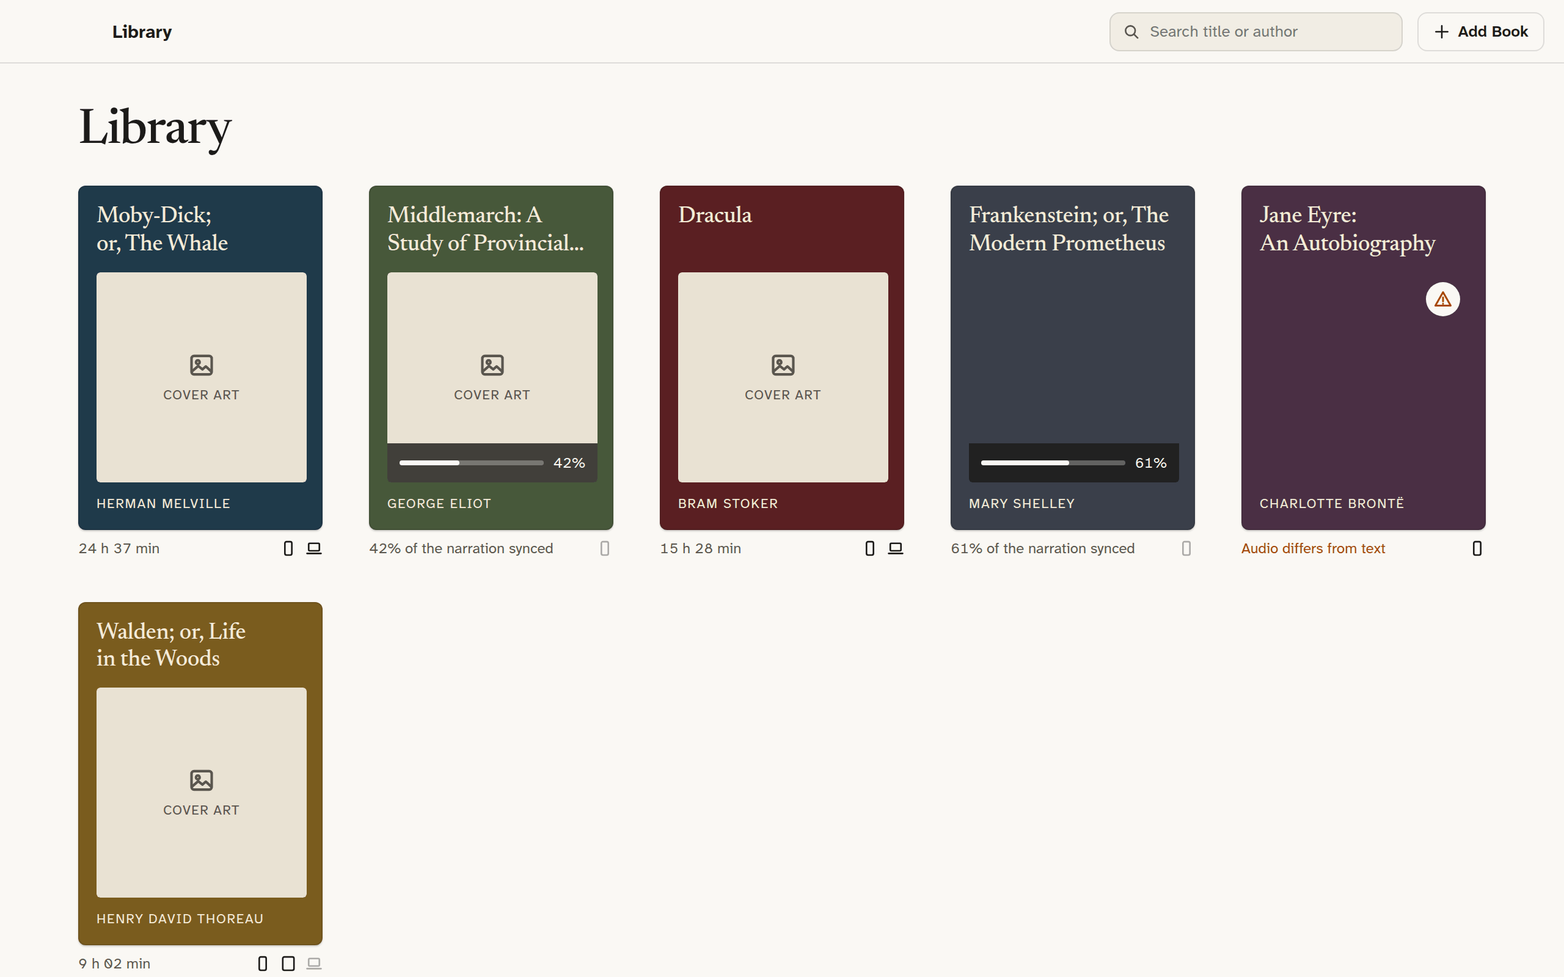
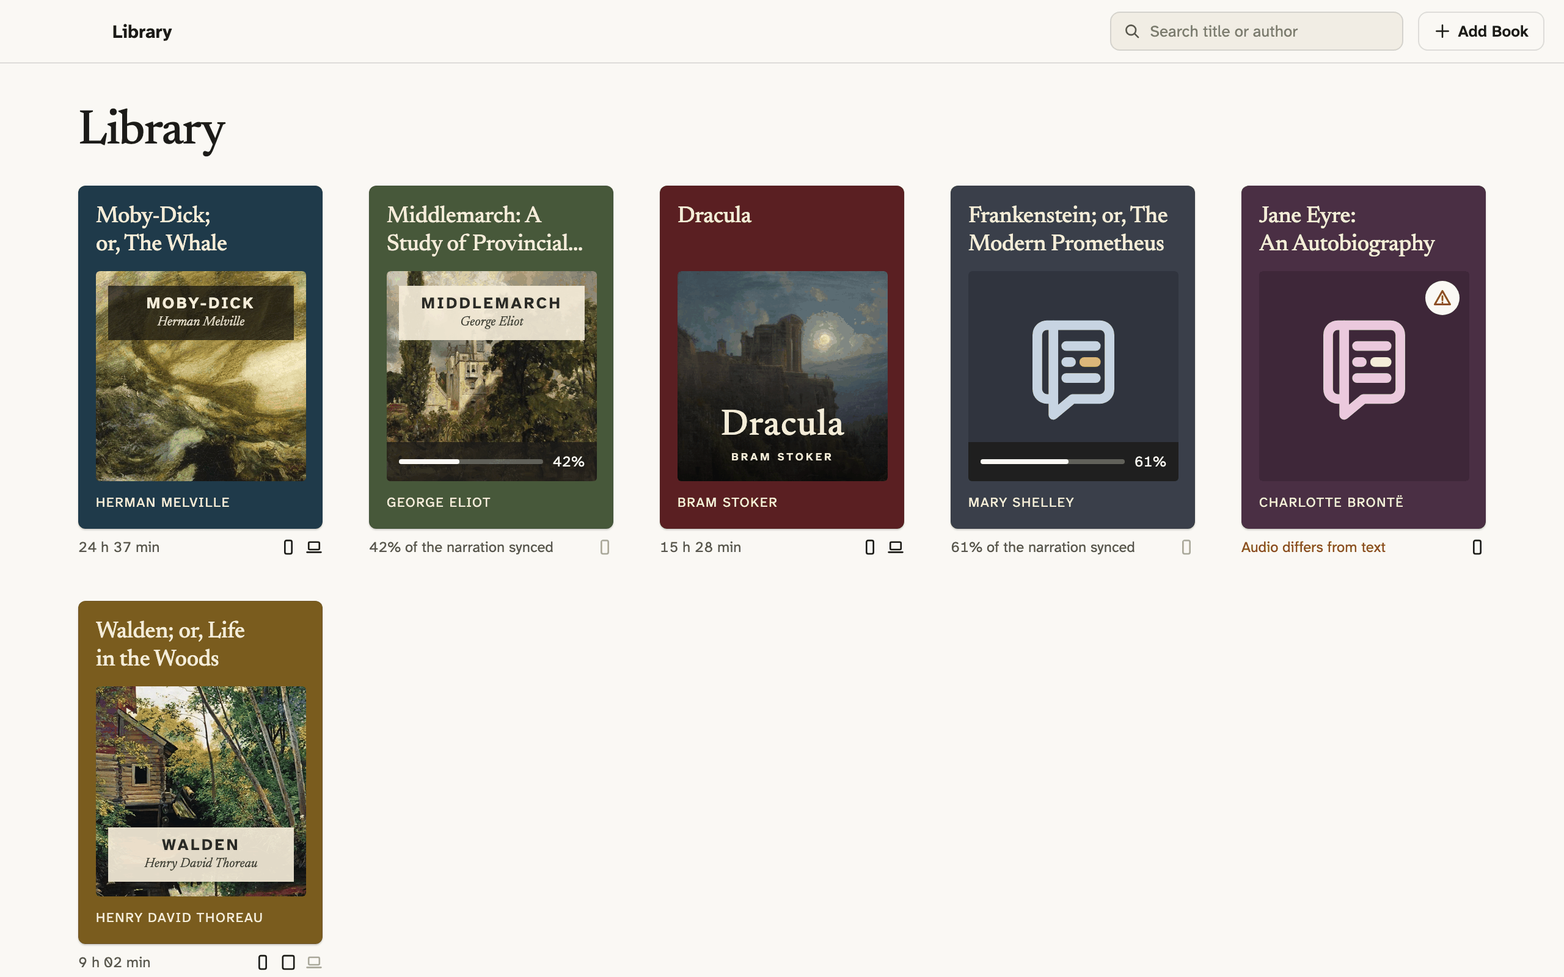
Put real covers in the library picture
The Mac library picture showed "Cover art" placeholders where the covers
go, which read as unfinished on a page that is meant to sell the app.
The four books with covers now carry the public-domain paintings
Standard Ebooks chose for their editions, cropped square and lettered in
different styles so the shelf looks like books from different shops.
The two books without a cover show the Entzun mark, tinted from the
book's own colour.

The artboard's templating script is not in the app repo, so
`design/library-mac.html` is a static copy of `ShelfMac.dc.html` in the
light theme with the covers filled in, rendered at 2x and reduced to a
256-colour palette (328 KB). The paintings are credited in the
acknowledgements on the support page.

diff --git a/design/library-mac.html b/design/library-mac.html
@@ -1,0 +1,36 @@
+<!doctype html>
+<html lang="en">
+<head>
+<meta charset="utf-8">
+<title>Library · Shelf, Mac</title>
+<!-- The Mac library artboard from the app repo (docs/design/artboards/ShelfMac.dc.html), light theme,
+     with the cover placeholders filled. Rendered to assets/screens/library-mac.png; see the README. -->
+<style>
+@font-face { font-family: "Newsreader"; src: url("../assets/fonts/Newsreader16pt-Regular.ttf"); font-weight: 400; }
+@font-face { font-family: "Newsreader"; src: url("../assets/fonts/Newsreader16pt-Medium.ttf"); font-weight: 500; }
+@font-face { font-family: "Newsreader"; src: url("../assets/fonts/Newsreader16pt-Italic.ttf"); font-weight: 400; font-style: italic; }
+@font-face { font-family: "Atkinson Hyperlegible Next"; src: url("../assets/fonts/AtkinsonHyperlegibleNext-Regular.ttf"); font-weight: 400; }
+@font-face { font-family: "Atkinson Hyperlegible Next"; src: url("../assets/fonts/AtkinsonHyperlegibleNext-SemiBold.ttf"); font-weight: 600; }
+@font-face { font-family: "Atkinson Hyperlegible Next"; src: url("../assets/fonts/AtkinsonHyperlegibleNext-Bold.ttf"); font-weight: 700; }
+body { margin: 0; font-family: "Atkinson Hyperlegible Next", system-ui, sans-serif; background: #FAF8F4; color: #1C1B19; }
+a { color: inherit; text-decoration: none; }
+.cover { width: 172px; height: 172px; border-radius: 3px; background-size: cover; background-position: center; box-shadow: 0 1px 3px rgba(0,0,0,0.3); position: relative; }
+.plate { position: absolute; left: 10px; right: 10px; top: 12px; padding: 7px 8px 8px; background: rgba(20, 18, 16, 0.72); color: #F4ECD8; display: flex; flex-direction: column; align-items: center; gap: 2px; text-align: center; }
+.plate-title { font-family: "Atkinson Hyperlegible Next", sans-serif; font-weight: 700; font-size: 13px; letter-spacing: 0.14em; text-transform: uppercase; line-height: 1.1; }
+.plate-author { font-family: "Newsreader", Georgia, serif; font-style: italic; font-size: 11px; line-height: 1.2; opacity: 0.9; }
+.plate-cream { background: rgba(244, 236, 216, 0.92); color: #2B2A26; }
+.plate-low { top: auto; bottom: 12px; }
+.cover-shade::after { content: ""; position: absolute; inset: 0; background: linear-gradient(to bottom, rgba(0,0,0,0) 45%, rgba(0,0,0,0.7)); border-radius: 3px; }
+.plate-bottom { position: absolute; left: 0; right: 0; bottom: 14px; z-index: 1; display: flex; flex-direction: column; align-items: center; color: #F4ECD8; }
+.plate-big { font-family: "Newsreader", Georgia, serif; font-weight: 500; font-size: 30px; letter-spacing: 0.02em; line-height: 1; }
+.plate-small { margin-top: 4px; font-size: 9px; font-weight: 600; letter-spacing: 0.22em; text-transform: uppercase; }
+.nocover { width: 172px; height: 172px; border-radius: 3px; background: rgba(0, 0, 0, 0.16); display: flex; align-items: center; justify-content: center; }
+.nocover .mark { width: 84px; height: 84px; margin-top: -10px; }
+</style>
+</head>
+<body>
+<div style="width: 1280px; height: 800px; box-sizing: border-box; overflow: hidden; background: #FAF8F4; color: #1C1B19; font-family: 'Atkinson Hyperlegible Next', system-ui, sans-serif; display: flex; flex-direction: column;">
+<div style="height: 52px; flex-shrink: 0; box-sizing: border-box; display: flex; align-items: center; justify-content: space-between; padding: 0 16px 0 92px; border-bottom: 1px solid rgba(28,27,25,0.12);"><div style="font-size: 15px; font-weight: 700;">Library</div><div style="display: flex; align-items: center; gap: 12px;"><label style="width: 240px; height: 32px; box-sizing: border-box; display: flex; align-items: center; gap: 8px; padding: 0 10px; border-radius: 8px; background: #F1EDE4; border: 1px solid rgba(28,27,25,0.12); color: #5A564E; font-size: 13px;"><svg width="14" height="14" viewBox="0 0 16 16" fill="none" stroke="currentColor" stroke-width="1.5" stroke-linecap="round" stroke-linejoin="round" aria-hidden="true" style="flex-shrink: 0;"><circle cx="7" cy="7" r="4.5"></circle><path d="M10.5 10.5l3.25 3.25"></path></svg><span style="position: absolute; width: 1px; height: 1px; overflow: hidden; clip-path: inset(50%);">Search the library</span><input type="search" placeholder="Search title or author" style="border: none; outline: none; background: none; padding: 0; margin: 0; min-width: 0; flex-grow: 1; font: inherit; color: #1C1B19;"></label><button type="button" style="border: none; background: none; padding: 0; margin: 0; font: inherit; color: inherit; cursor: pointer; height: 32px; display: flex; align-items: center; gap: 6px; padding: 0 12px; border-radius: 8px; border: 1px solid rgba(28,27,25,0.12); font-size: 13px; font-weight: 600;"><svg width="14" height="14" viewBox="0 0 16 16" fill="none" stroke="currentColor" stroke-width="1.5" stroke-linecap="round" stroke-linejoin="round" aria-hidden="true" style="flex-shrink: 0;"><path d="M8 2.5v11M2.5 8h11"></path></svg><span>Add Book</span></button></div></div><div style="display: flex; flex-direction: column; padding: 36px 64px 0;"><h1 style="margin: 0 0 24px; font-family: 'Newsreader', Georgia, serif; font-weight: 500; font-size: 40px; letter-spacing: -0.02em;">Library</h1><div style="display: grid; grid-template-columns: repeat(5, minmax(0, 1fr)); gap: 36px 38px;"><a href="#read" style="display: flex; flex-direction: column; gap: 7px; min-width: 0;"><div style="width: 200px; box-sizing: border-box; padding: 14px; background: #1F3A4A; color: #F4ECD8; border-radius: 6px; border: 0.5px solid rgba(28,27,25,0.12); box-shadow: 0 1px 1.5px rgba(0,0,0,0.18); display: flex; flex-direction: column; gap: 10px;"><div style="font-family: 'Newsreader', Georgia, serif; font-weight: 500; line-height: 1.2; letter-spacing: -0.01em; font-size: 19px; min-height: 2.4em; display: -webkit-box; -webkit-line-clamp: 2; -webkit-box-orient: vertical; overflow: hidden; text-wrap: balance;">Moby-Dick; or, The Whale</div><div style="position: relative; width: 172px; height: 172px; border-radius: 3px; overflow: hidden;"><div class="cover" style="background-image: url(covers/moby-dick.jpg);"><div class="plate"><span class="plate-title">Moby-Dick</span><span class="plate-author">Herman Melville</span></div></div></div><div style="font-size: 11px; letter-spacing: 0.08em; text-transform: uppercase; white-space: nowrap; overflow: hidden; text-overflow: ellipsis;">Herman Melville</div></div><div style="display: flex; justify-content: space-between; align-items: center; gap: 8px;"><div style="font-size: 12px; color: #5A564E; white-space: nowrap; overflow: hidden; text-overflow: ellipsis; font-variant-numeric: tabular-nums;">24 h 37 min</div><div role="img" aria-label="This iPhone: ready to read. MacBook Pro: ready to read." style="display: flex; gap: 7px; align-items: center; color: #1C1B19;"><span style="display: flex; opacity: 1;"><svg width="14" height="14" viewBox="0 0 16 16" fill="none" stroke="currentColor" stroke-width="1.5" stroke-linecap="round" stroke-linejoin="round" aria-hidden="true" style="flex-shrink: 0;"><rect x="4.75" y="1.75" width="6.5" height="12.5" rx="1.5"></rect></svg></span><span style="display: flex; opacity: 1;"><svg width="14" height="14" viewBox="0 0 16 16" fill="none" stroke="currentColor" stroke-width="1.5" stroke-linecap="round" stroke-linejoin="round" aria-hidden="true" style="flex-shrink: 0;"><rect x="3" y="3.25" width="10" height="7" rx="1"></rect><path d="M1.5 12.75h13"></path></svg></span></div></div></a><a href="#read" style="display: flex; flex-direction: column; gap: 7px; min-width: 0;"><div style="width: 200px; box-sizing: border-box; padding: 14px; background: #47583A; color: #F4ECD8; border-radius: 6px; border: 0.5px solid rgba(28,27,25,0.12); box-shadow: 0 1px 1.5px rgba(0,0,0,0.18); display: flex; flex-direction: column; gap: 10px;"><div style="font-family: 'Newsreader', Georgia, serif; font-weight: 500; line-height: 1.2; letter-spacing: -0.01em; font-size: 19px; min-height: 2.4em; display: -webkit-box; -webkit-line-clamp: 2; -webkit-box-orient: vertical; overflow: hidden; text-wrap: balance;">Middlemarch: A Study of Provincial Life</div><div style="position: relative; width: 172px; height: 172px; border-radius: 3px; overflow: hidden;"><div class="cover" style="background-image: url(covers/middlemarch.jpg);"><div class="plate plate-cream"><span class="plate-title">Middlemarch</span><span class="plate-author">George Eliot</span></div></div><div style="position: absolute; left: 0; right: 0; bottom: 0; padding: 8px 10px; background: rgba(28,27,25,0.82); color: #FAF8F4; display: flex; align-items: center; gap: 8px; font-size: 12px; font-variant-numeric: tabular-nums;"><div style="flex-grow: 1; height: 4px; border-radius: 2px; background: rgba(250,248,244,0.3);"><div style="width: 42%; height: 4px; border-radius: 2px; background: #FAF8F4;"></div></div><span>42%</span></div></div><div style="font-size: 11px; letter-spacing: 0.08em; text-transform: uppercase; white-space: nowrap; overflow: hidden; text-overflow: ellipsis;">George Eliot</div></div><div style="display: flex; justify-content: space-between; align-items: center; gap: 8px;"><div style="font-size: 12px; color: #5A564E; white-space: nowrap; overflow: hidden; text-overflow: ellipsis; font-variant-numeric: tabular-nums;">42% of the narration synced</div><div role="img" aria-label="This iPhone: 42% synced." style="display: flex; gap: 7px; align-items: center; color: #1C1B19;"><span style="display: flex; opacity: 0.35;"><svg width="14" height="14" viewBox="0 0 16 16" fill="none" stroke="currentColor" stroke-width="1.5" stroke-linecap="round" stroke-linejoin="round" aria-hidden="true" style="flex-shrink: 0;"><rect x="4.75" y="1.75" width="6.5" height="12.5" rx="1.5"></rect></svg></span></div></div></a><a href="#read" style="display: flex; flex-direction: column; gap: 7px; min-width: 0;"><div style="width: 200px; box-sizing: border-box; padding: 14px; background: #5A1F22; color: #F4ECD8; border-radius: 6px; border: 0.5px solid rgba(28,27,25,0.12); box-shadow: 0 1px 1.5px rgba(0,0,0,0.18); display: flex; flex-direction: column; gap: 10px;"><div style="font-family: 'Newsreader', Georgia, serif; font-weight: 500; line-height: 1.2; letter-spacing: -0.01em; font-size: 19px; min-height: 2.4em; display: -webkit-box; -webkit-line-clamp: 2; -webkit-box-orient: vertical; overflow: hidden; text-wrap: balance;">Dracula</div><div style="position: relative; width: 172px; height: 172px; border-radius: 3px; overflow: hidden;"><div class="cover cover-shade" style="background-image: url(covers/dracula.jpg);"><div class="plate-bottom"><span class="plate-big">Dracula</span><span class="plate-small">Bram Stoker</span></div></div></div><div style="font-size: 11px; letter-spacing: 0.08em; text-transform: uppercase; white-space: nowrap; overflow: hidden; text-overflow: ellipsis;">Bram Stoker</div></div><div style="display: flex; justify-content: space-between; align-items: center; gap: 8px;"><div style="font-size: 12px; color: #5A564E; white-space: nowrap; overflow: hidden; text-overflow: ellipsis; font-variant-numeric: tabular-nums;">15 h 28 min</div><div role="img" aria-label="This iPhone: ready to read. MacBook Pro: ready to read." style="display: flex; gap: 7px; align-items: center; color: #1C1B19;"><span style="display: flex; opacity: 1;"><svg width="14" height="14" viewBox="0 0 16 16" fill="none" stroke="currentColor" stroke-width="1.5" stroke-linecap="round" stroke-linejoin="round" aria-hidden="true" style="flex-shrink: 0;"><rect x="4.75" y="1.75" width="6.5" height="12.5" rx="1.5"></rect></svg></span><span style="display: flex; opacity: 1;"><svg width="14" height="14" viewBox="0 0 16 16" fill="none" stroke="currentColor" stroke-width="1.5" stroke-linecap="round" stroke-linejoin="round" aria-hidden="true" style="flex-shrink: 0;"><rect x="3" y="3.25" width="10" height="7" rx="1"></rect><path d="M1.5 12.75h13"></path></svg></span></div></div></a><a href="#read" style="display: flex; flex-direction: column; gap: 7px; min-width: 0;"><div style="width: 200px; box-sizing: border-box; padding: 14px; background: #3A3F4A; color: #F4ECD8; border-radius: 6px; border: 0.5px solid rgba(28,27,25,0.12); box-shadow: 0 1px 1.5px rgba(0,0,0,0.18); display: flex; flex-direction: column; gap: 10px;"><div style="font-family: 'Newsreader', Georgia, serif; font-weight: 500; line-height: 1.2; letter-spacing: -0.01em; font-size: 19px; min-height: 2.4em; display: -webkit-box; -webkit-line-clamp: 2; -webkit-box-orient: vertical; overflow: hidden; text-wrap: balance;">Frankenstein; or, The Modern Prometheus</div><div style="position: relative; width: 172px; height: 172px; border-radius: 3px; overflow: hidden;"><div class="nocover" style="color: #C7D4E2; --word: #F2B45C;"><svg class="mark" viewBox="0 0 160 160" fill="none" stroke-width="15" stroke-linecap="round" stroke-linejoin="round" aria-hidden="true"><g stroke="currentColor"><path d="M38.77 10H121.23C129.46 10 136.23 16.77 136.23 25V110C136.23 118.23 129.46 125 121.23 125H78.77L48.77 150V125H38.77C30.54 125 23.77 118.23 23.77 110V25C23.77 16.77 30.54 10 38.77 10Z"/><path d="M48.77 10V125"/><path d="M68.77 42.5H114.96M68.77 92.5H114.96M68.77 67.5H76.27"/></g><path d="M96.92 67.5H114.96" stroke="var(--word)"/></svg></div><div style="position: absolute; left: 0; right: 0; bottom: 0; padding: 8px 10px; background: rgba(28,27,25,0.82); color: #FAF8F4; display: flex; align-items: center; gap: 8px; font-size: 12px; font-variant-numeric: tabular-nums;"><div style="flex-grow: 1; height: 4px; border-radius: 2px; background: rgba(250,248,244,0.3);"><div style="width: 61%; height: 4px; border-radius: 2px; background: #FAF8F4;"></div></div><span>61%</span></div></div><div style="font-size: 11px; letter-spacing: 0.08em; text-transform: uppercase; white-space: nowrap; overflow: hidden; text-overflow: ellipsis;">Mary Shelley</div></div><div style="display: flex; justify-content: space-between; align-items: center; gap: 8px;"><div style="font-size: 12px; color: #5A564E; white-space: nowrap; overflow: hidden; text-overflow: ellipsis; font-variant-numeric: tabular-nums;">61% of the narration synced</div><div role="img" aria-label="This iPhone: 61% of the narration synced." style="display: flex; gap: 7px; align-items: center; color: #1C1B19;"><span style="display: flex; opacity: 0.35;"><svg width="14" height="14" viewBox="0 0 16 16" fill="none" stroke="currentColor" stroke-width="1.5" stroke-linecap="round" stroke-linejoin="round" aria-hidden="true" style="flex-shrink: 0;"><rect x="4.75" y="1.75" width="6.5" height="12.5" rx="1.5"></rect></svg></span></div></div></a><a href="#read" style="display: flex; flex-direction: column; gap: 7px; min-width: 0;"><div style="width: 200px; box-sizing: border-box; padding: 14px; background: #4A2F44; color: #F4ECD8; border-radius: 6px; border: 0.5px solid rgba(28,27,25,0.12); box-shadow: 0 1px 1.5px rgba(0,0,0,0.18); display: flex; flex-direction: column; gap: 10px;"><div style="font-family: 'Newsreader', Georgia, serif; font-weight: 500; line-height: 1.2; letter-spacing: -0.01em; font-size: 19px; min-height: 2.4em; display: -webkit-box; -webkit-line-clamp: 2; -webkit-box-orient: vertical; overflow: hidden; text-wrap: balance;">Jane Eyre: An Autobiography</div><div style="position: relative; width: 172px; height: 172px; border-radius: 3px; overflow: hidden;"><div class="nocover" style="color: #EBC9DD; --word: #F4ECD8;"><svg class="mark" viewBox="0 0 160 160" fill="none" stroke-width="15" stroke-linecap="round" stroke-linejoin="round" aria-hidden="true"><g stroke="currentColor"><path d="M38.77 10H121.23C129.46 10 136.23 16.77 136.23 25V110C136.23 118.23 129.46 125 121.23 125H78.77L48.77 150V125H38.77C30.54 125 23.77 118.23 23.77 110V25C23.77 16.77 30.54 10 38.77 10Z"/><path d="M48.77 10V125"/><path d="M68.77 42.5H114.96M68.77 92.5H114.96M68.77 67.5H76.27"/></g><path d="M96.92 67.5H114.96" stroke="var(--word)"/></svg></div><div style="position: absolute; top: 8px; right: 8px; width: 28px; height: 28px; border-radius: 50%; background: #FAF8F4; color: #A8480A; display: flex; align-items: center; justify-content: center;"><svg width="16" height="16" viewBox="0 0 16 16" fill="none" stroke="currentColor" stroke-width="1.5" stroke-linecap="round" stroke-linejoin="round" aria-hidden="true" style="flex-shrink: 0;"><path d="M8 2.25l6.25 11H1.75z"></path><path d="M8 6.5v3.25M8 11.6v.1"></path></svg></div></div><div style="font-size: 11px; letter-spacing: 0.08em; text-transform: uppercase; white-space: nowrap; overflow: hidden; text-overflow: ellipsis;">Charlotte Brontë</div></div><div style="display: flex; justify-content: space-between; align-items: center; gap: 8px;"><div style="font-size: 12px; color: #A8480A; white-space: nowrap; overflow: hidden; text-overflow: ellipsis; font-variant-numeric: tabular-nums;">Audio differs from text</div><div role="img" aria-label="This iPhone: ready to read." style="display: flex; gap: 7px; align-items: center; color: #1C1B19;"><span style="display: flex; opacity: 1;"><svg width="14" height="14" viewBox="0 0 16 16" fill="none" stroke="currentColor" stroke-width="1.5" stroke-linecap="round" stroke-linejoin="round" aria-hidden="true" style="flex-shrink: 0;"><rect x="4.75" y="1.75" width="6.5" height="12.5" rx="1.5"></rect></svg></span></div></div></a><a href="#read" style="display: flex; flex-direction: column; gap: 7px; min-width: 0;"><div style="width: 200px; box-sizing: border-box; padding: 14px; background: #7A5C1E; color: #F4ECD8; border-radius: 6px; border: 0.5px solid rgba(28,27,25,0.12); box-shadow: 0 1px 1.5px rgba(0,0,0,0.18); display: flex; flex-direction: column; gap: 10px;"><div style="font-family: 'Newsreader', Georgia, serif; font-weight: 500; line-height: 1.2; letter-spacing: -0.01em; font-size: 19px; min-height: 2.4em; display: -webkit-box; -webkit-line-clamp: 2; -webkit-box-orient: vertical; overflow: hidden; text-wrap: balance;">Walden; or, Life in the Woods</div><div style="position: relative; width: 172px; height: 172px; border-radius: 3px; overflow: hidden;"><div class="cover" style="background-image: url(covers/walden.jpg);"><div class="plate plate-cream plate-low"><span class="plate-title">Walden</span><span class="plate-author">Henry David Thoreau</span></div></div></div><div style="font-size: 11px; letter-spacing: 0.08em; text-transform: uppercase; white-space: nowrap; overflow: hidden; text-overflow: ellipsis;">Henry David Thoreau</div></div><div style="display: flex; justify-content: space-between; align-items: center; gap: 8px;"><div style="font-size: 12px; color: #5A564E; white-space: nowrap; overflow: hidden; text-overflow: ellipsis; font-variant-numeric: tabular-nums;">9 h 02 min</div><div role="img" aria-label="This iPhone: ready to read. iPad: ready to read. MacBook Air: 64% synced." style="display: flex; gap: 7px; align-items: center; color: #1C1B19;"><span style="display: flex; opacity: 1;"><svg width="14" height="14" viewBox="0 0 16 16" fill="none" stroke="currentColor" stroke-width="1.5" stroke-linecap="round" stroke-linejoin="round" aria-hidden="true" style="flex-shrink: 0;"><rect x="4.75" y="1.75" width="6.5" height="12.5" rx="1.5"></rect></svg></span><span style="display: flex; opacity: 1;"><svg width="14" height="14" viewBox="0 0 16 16" fill="none" stroke="currentColor" stroke-width="1.5" stroke-linecap="round" stroke-linejoin="round" aria-hidden="true" style="flex-shrink: 0;"><rect x="2.75" y="1.75" width="10.5" height="12.5" rx="1.5"></rect></svg></span><span style="display: flex; opacity: 0.35;"><svg width="14" height="14" viewBox="0 0 16 16" fill="none" stroke="currentColor" stroke-width="1.5" stroke-linecap="round" stroke-linejoin="round" aria-hidden="true" style="flex-shrink: 0;"><rect x="3" y="3.25" width="10" height="7" rx="1"></rect><path d="M1.5 12.75h13"></path></svg></span></div></div></a></div></div>
+</div>
+</body>
+</html>

diff --git a/support.html b/support.html
@@ -99,7 +99,7 @@
       <p class="muted">Read on both without iCloud and each device keeps its own place; when the two disagree, the app asks which to carry on from before showing a page.</p>
 
       <h2 class="serif" id="acknowledgements">Acknowledgements</h2>
-      <p class="muted">The work of others that ships with the app, and with this site. The typefaces Newsreader, Atkinson Hyperlegible Next, Lexend and OpenDyslexic are used under the SIL Open Font License 1.1; Luciole, by Laurent Bourcellier and Jonathan Perez, under the Creative Commons Attribution 4.0 International licence. EPUB files are opened with ZIPFoundation, by Thomas Zoechling, under the MIT licence. The full notices are in the app, under About, and beside the font files on this site.</p>
+      <p class="muted">The work of others that ships with the app, and with this site. The typefaces Newsreader, Atkinson Hyperlegible Next, Lexend and OpenDyslexic are used under the SIL Open Font License 1.1; Luciole, by Laurent Bourcellier and Jonathan Perez, under the Creative Commons Attribution 4.0 International licence. EPUB files are opened with ZIPFoundation, by Thomas Zoechling, under the MIT licence. The full notices are in the app, under About, and beside the font files on this site. The covers in the picture of the library are public-domain paintings, as Standard Ebooks chose them for their editions: <cite>The Flying Dutchman</cite> by Albert Pinkham Ryder, <cite>The Grove, Hampstead</cite> by John Constable, <cite>Italian Landscape of Ruins in the Moonlight</cite> by Joseph Magnus Stäck, and <cite>Mill in the Forest</cite> by Ivan Shishkin.</p>
     </article>
   </div>
 </main>

diff --git a/index.html b/index.html
@@ -293,7 +293,7 @@
           <h2 class="display">A shelf that says what is going on.</h2>
           <p class="muted">Under every cover, one line of truth: how long the narration is, how much has synced, or, when the recording does not follow the text, a plain “Audio differs from text”.</p>
         </div>
-        <img class="shot-mac" src="assets/screens/library-mac.png" width="1280" height="800" alt="The library on Mac: a grid of book tiles in deep muted colours, one still syncing and one flagged as not matching its text">
+        <img class="shot-mac" src="assets/screens/library-mac.png" width="1280" height="800" alt="The library on Mac: a grid of book tiles in deep muted colours with their covers, one still syncing and one flagged as not matching its text">
       </div>
     </div>
   </section>

diff --git a/README.md b/README.md
@@ -13,7 +13,8 @@ The website for [Entzun](https://entzun.ink): the home page, the privacy policy 
 | `assets/site.css` | All styles. The colour, type, spacing and radius values are the app's design tokens (`docs/design/tokens.json` in the app repo), in Paper (light) and Night (dark) via `prefers-color-scheme`. |
 | `assets/site.js` | The spacing sliders in the accessibility section, and the narration in the reader frames. Nothing else runs script, and the page reads fine without it. |
 | `assets/fonts/` | Newsreader, Atkinson Hyperlegible Next, Lexend, Luciole and OpenDyslexic, self-hosted, with their licence files beside them. Copied from `App/Entzun/Fonts` in the app repo. |
-| `assets/screens/` | Rendered screens from `docs/design/screens` in the app repo. |
+| `assets/screens/` | Rendered screens from `docs/design/screens` in the app repo, except `library-mac.png`, which is rendered from `design/library-mac.html`. |
+| `design/` | `library-mac.html`, the Mac library artboard from the app repo with real covers in place of the placeholders: public-domain paintings from Standard Ebooks, cropped square in `design/covers/`, and the tinted Entzun mark on the two books without a cover. Render it with headless Chrome at 1280 by 800 and a device scale of 2, then reduce it to a 256-colour palette. |
 | `assets/logo/` | The Entzun mark. `entzun-logo.svg` is the editable master; the flattened marks, the App Store icon, and the lockups are derived from it, and its `README.md` holds the rules and the prompt for rebuilding everything when the mark changes. |
 | `assets/*.png` | `favicon-16.png`, `favicon-32.png`, `apple-touch-icon.png`, `icon-512.png`, and `social-card.png`, rendered from `assets/logo/` with headless Chromium. Re-render them rather than editing them. |
 | `CNAME` | The custom domain, so Pages keeps it across deploys. |
